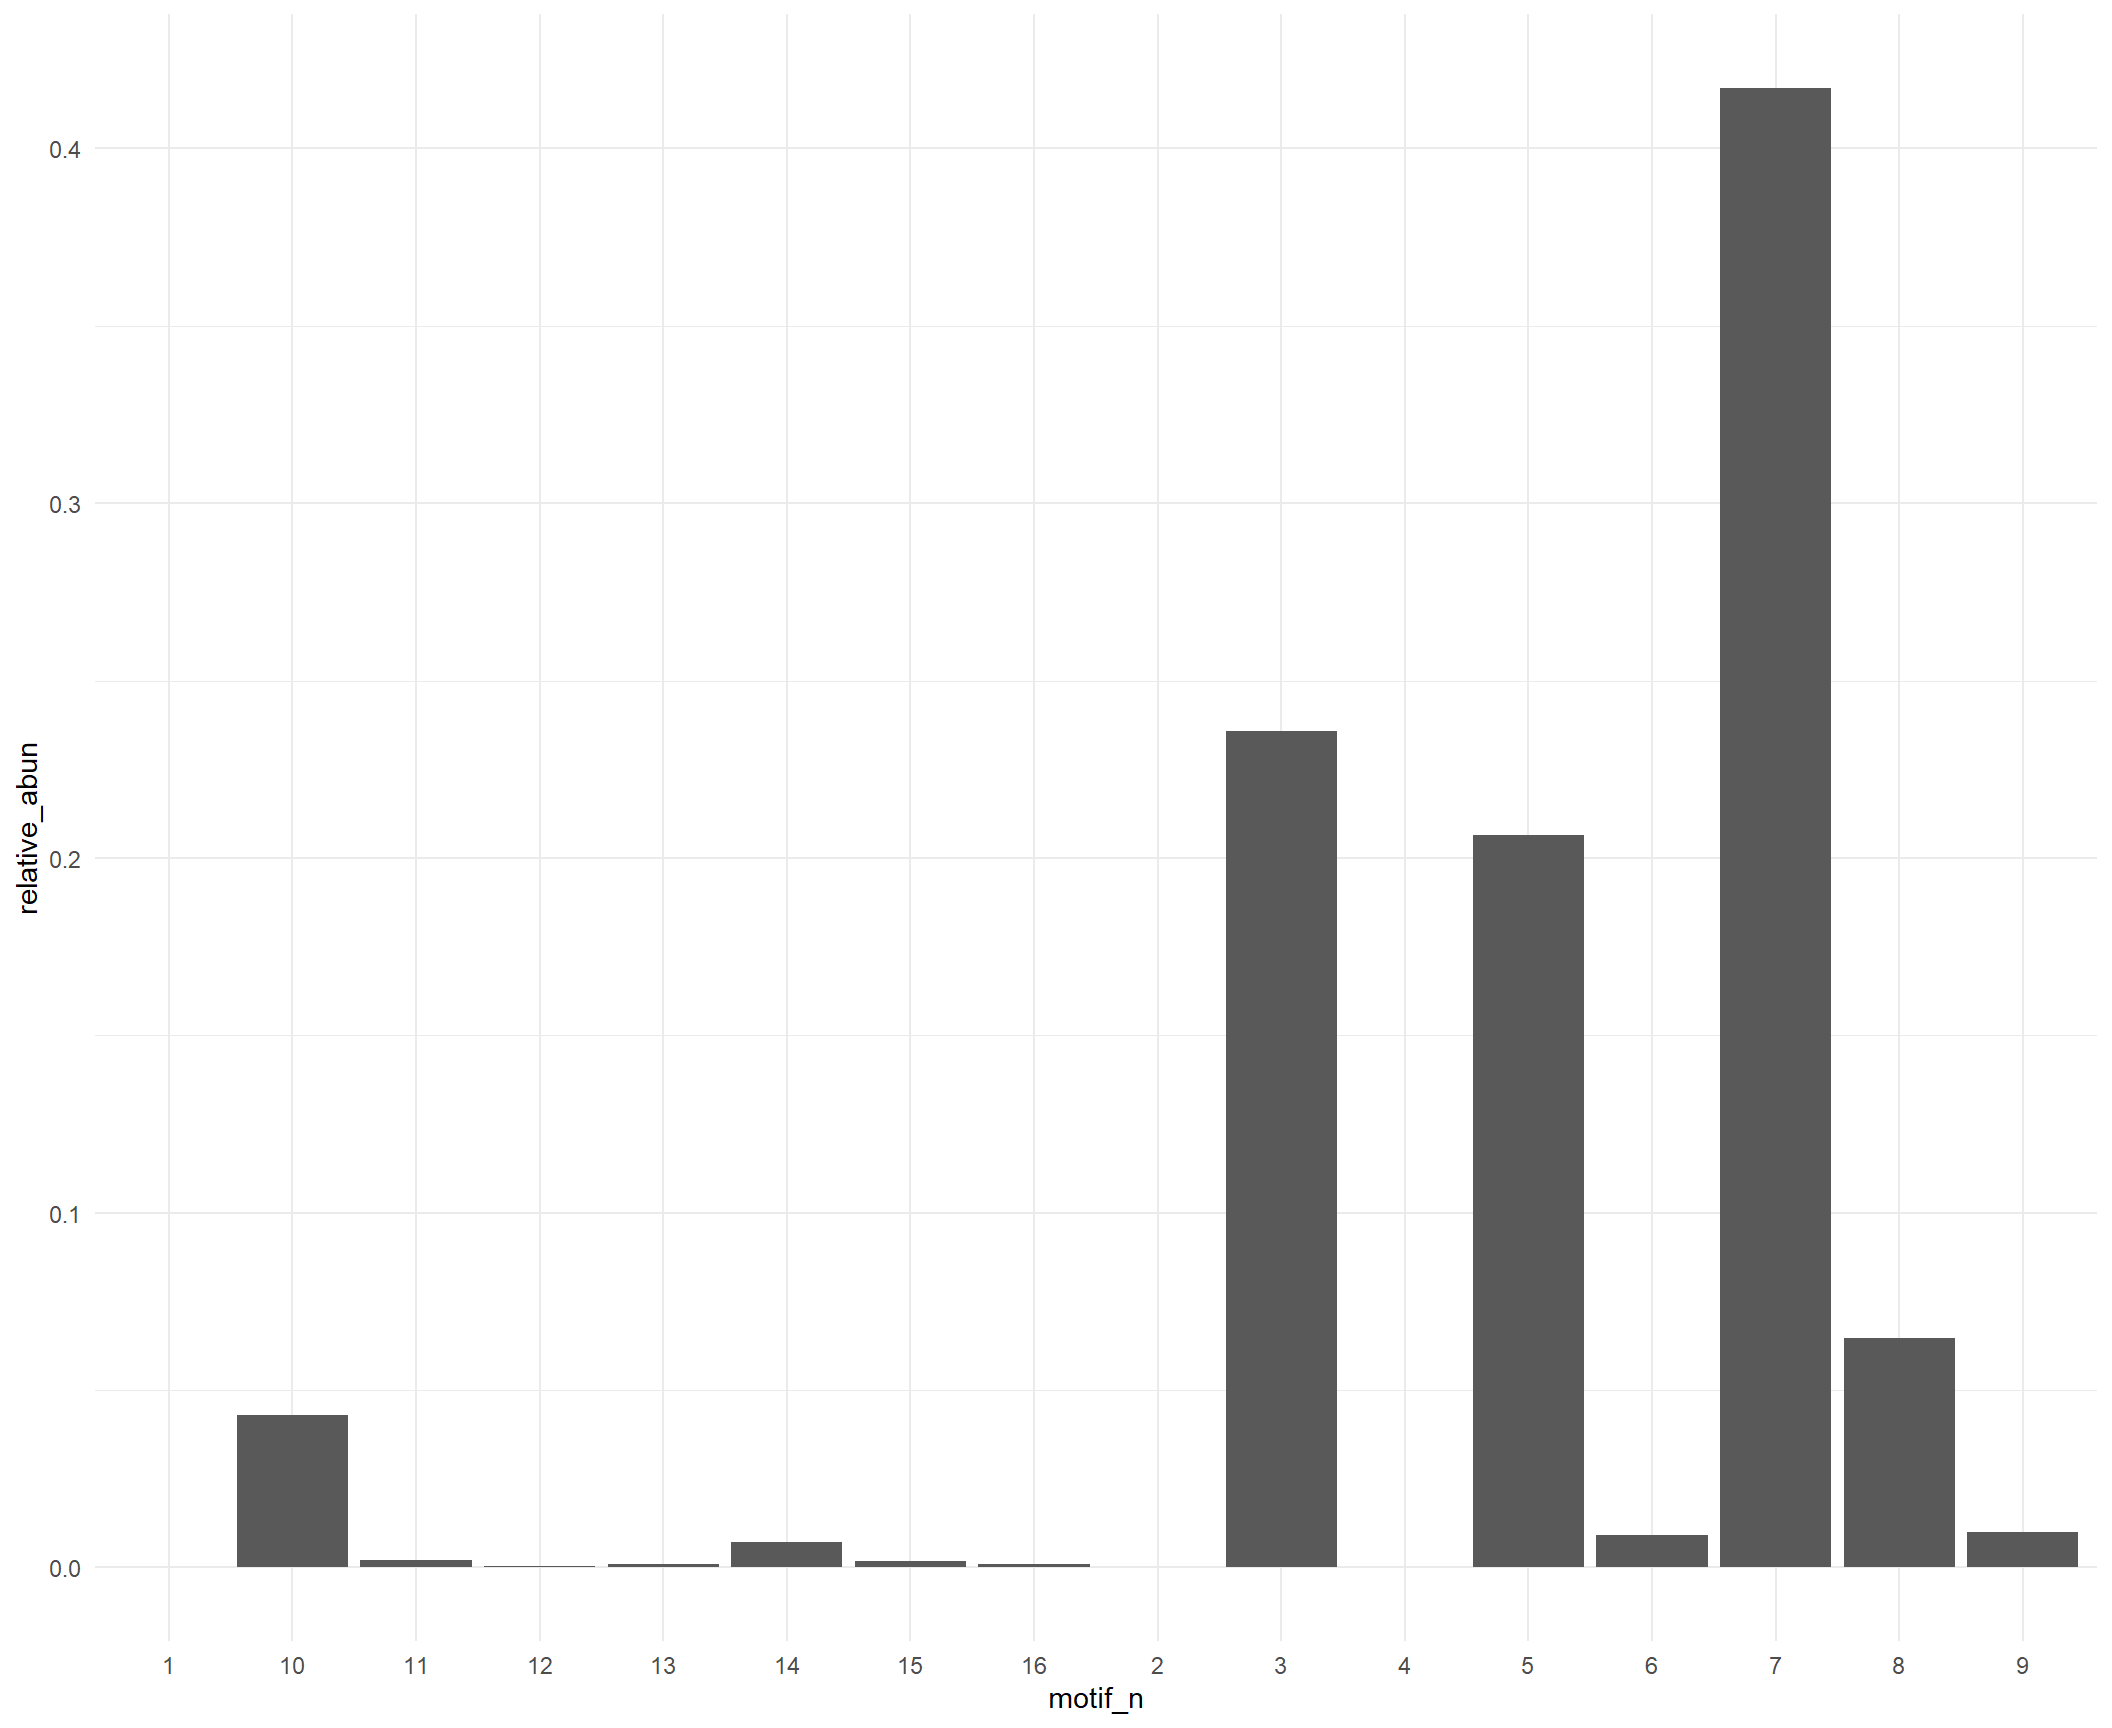
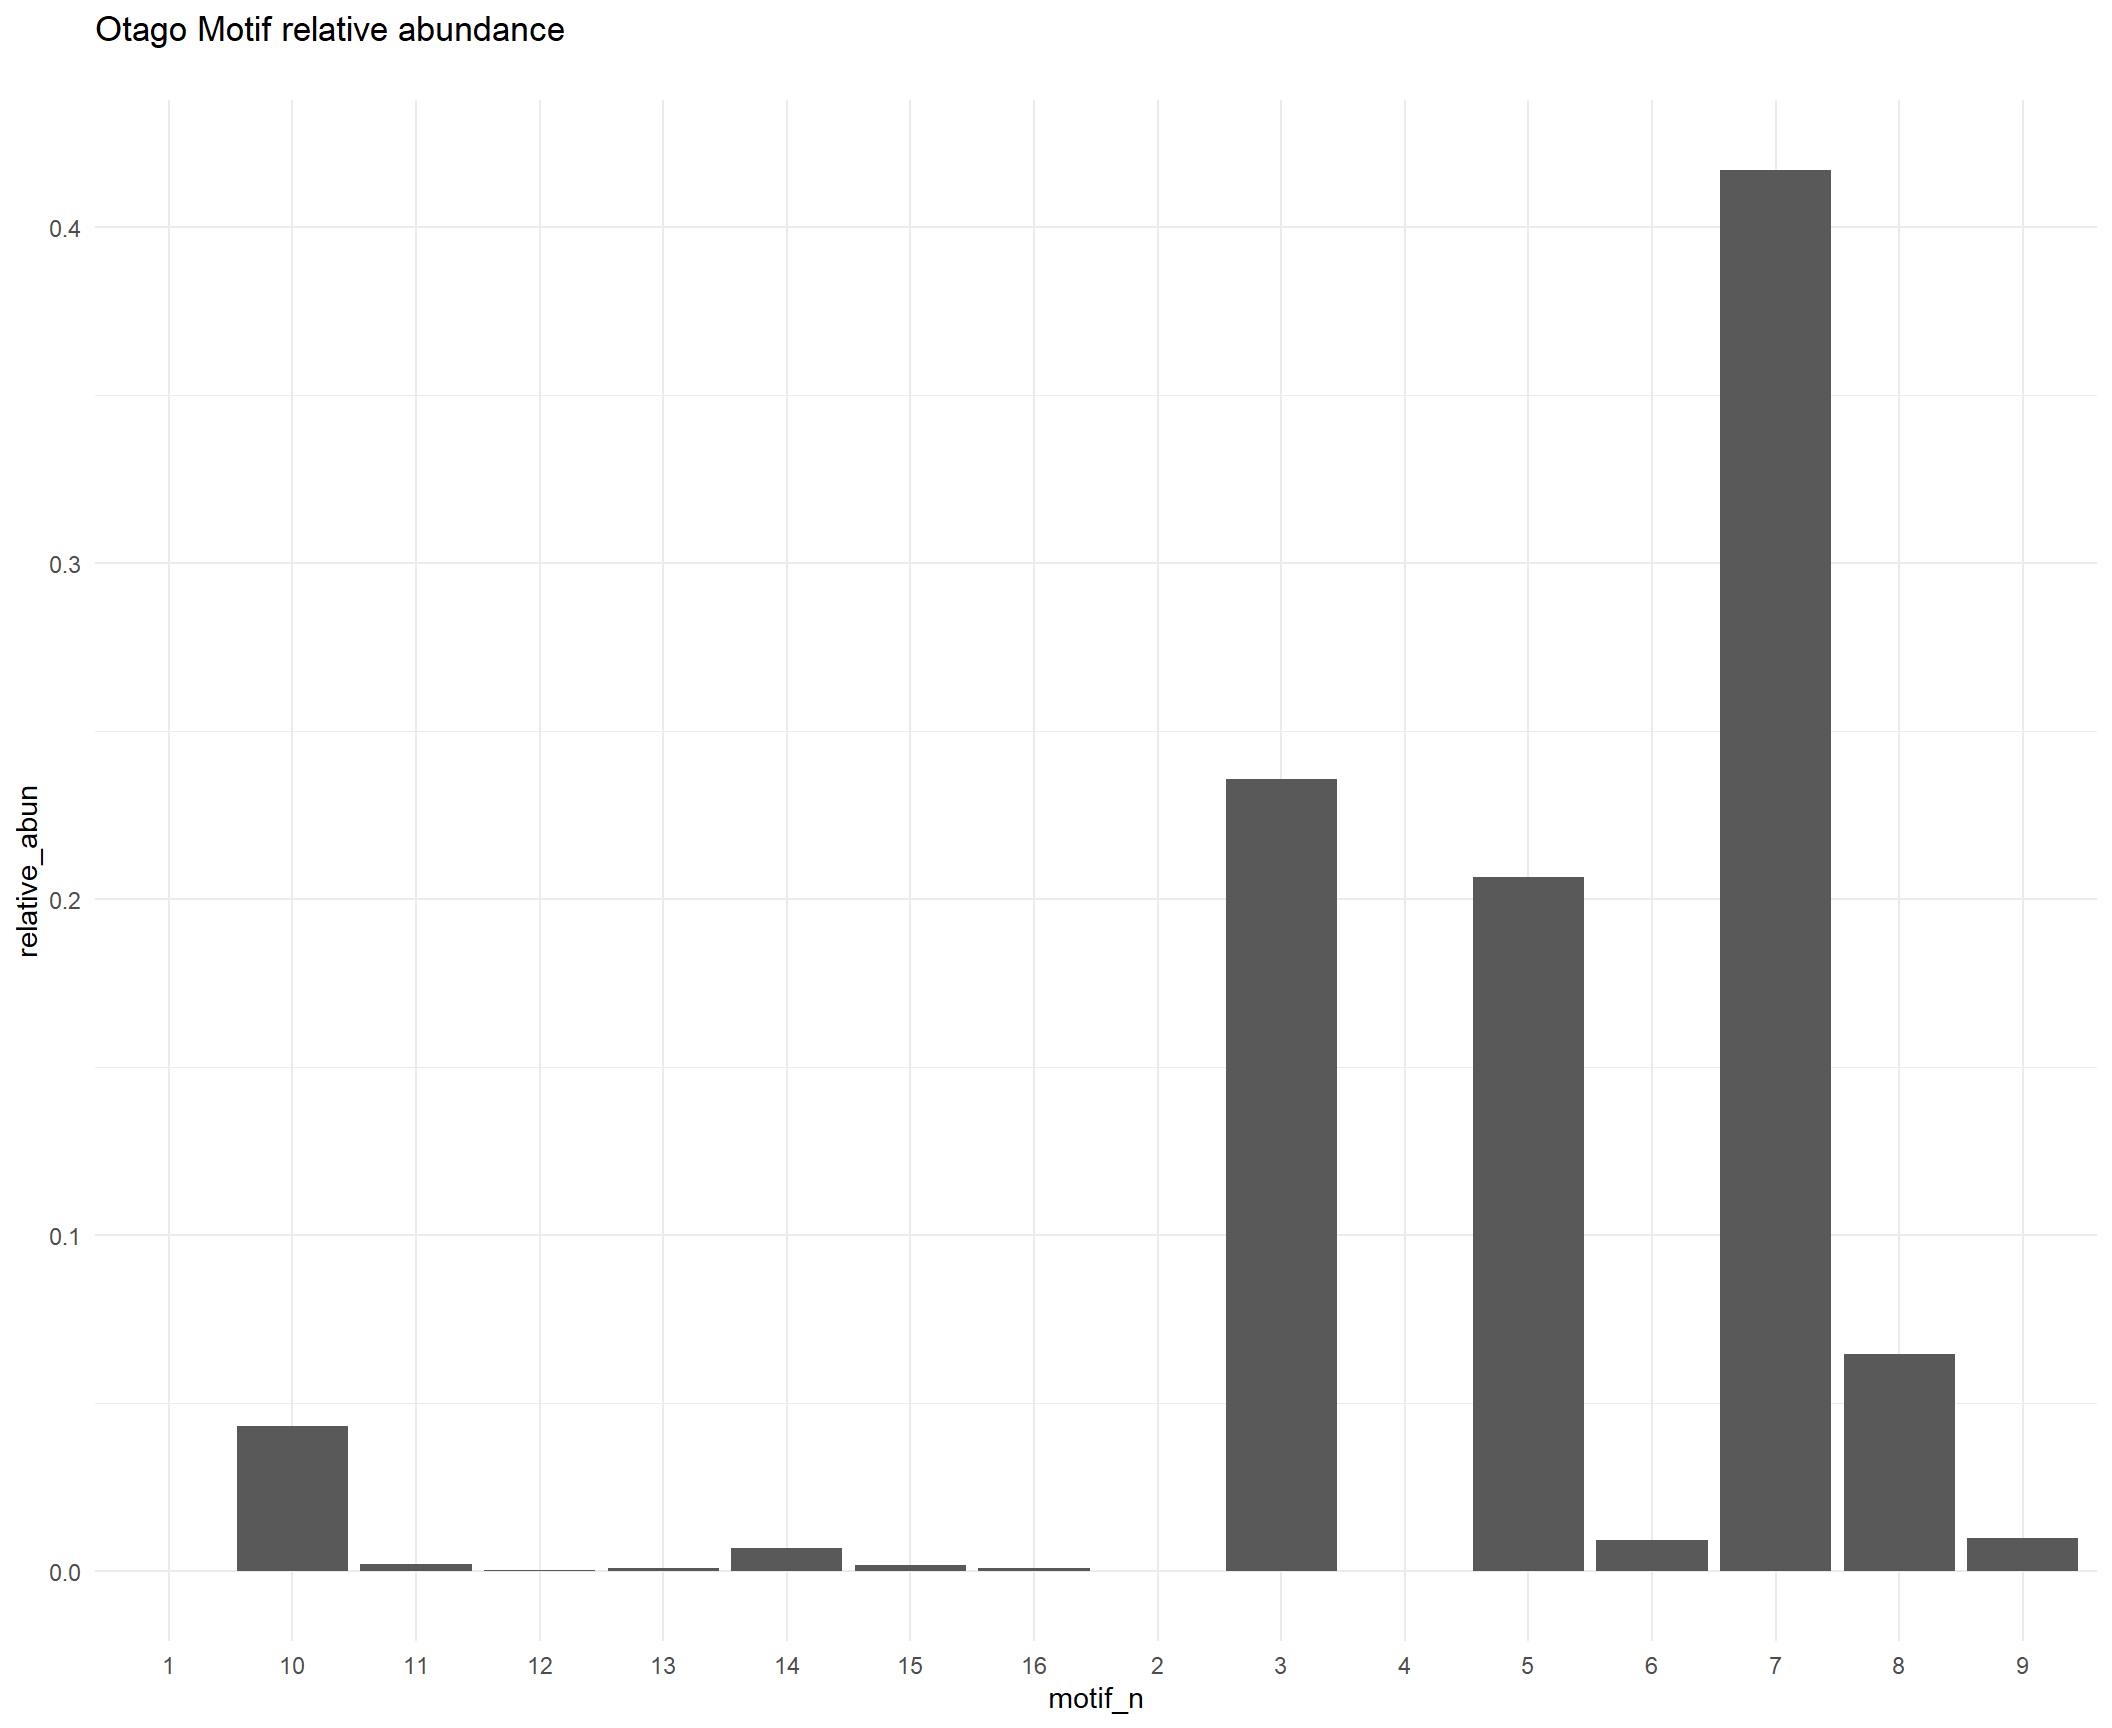
Build site.

diff --git a/docs/Networks_HW2.html b/docs/Networks_HW2.html
@@ -382,7 +382,7 @@ div.tocify {
 <div class="tab-content">
 <div id="summary" class="tab-pane fade in active">
 <p>
-<strong>Last updated:</strong> 2021-04-12
+<strong>Last updated:</strong> 2021-04-14
 </p>
 <p>
 <strong>Checks:</strong> <span class="glyphicon glyphicon-ok text-success" aria-hidden="true"></span> 7 <span class="glyphicon glyphicon-exclamation-sign text-danger" aria-hidden="true"></span> 0
@@ -473,16 +473,16 @@ This reproducible <a href="http://rmarkdown.rstudio.com">R Markdown</a> analysis
 <div class="panel panel-default">
 <div class="panel-heading">
 <p class="panel-title">
-<a data-toggle="collapse" data-parent="#workflowr-checks" href="#strongRepositoryversionstrongahrefhttpsgithubcomKiseokUchicagoNetworksHWS2021tree64a8b31053fa085d543139359685bf8105de938dtargetblank64a8b31a"> <span class="glyphicon glyphicon-ok text-success" aria-hidden="true"></span> <strong>Repository version:</strong> <a href="https://github.com/KiseokUchicago/Networks_HW_S2021/tree/64a8b31053fa085d543139359685bf8105de938d" target="_blank">64a8b31</a> </a>
+<a data-toggle="collapse" data-parent="#workflowr-checks" href="#strongRepositoryversionstrongahrefhttpsgithubcomKiseokUchicagoNetworksHWS2021treea62bd87dba375a62853e39455bbdd7c284271918targetblanka62bd87a"> <span class="glyphicon glyphicon-ok text-success" aria-hidden="true"></span> <strong>Repository version:</strong> <a href="https://github.com/KiseokUchicago/Networks_HW_S2021/tree/a62bd87dba375a62853e39455bbdd7c284271918" target="_blank">a62bd87</a> </a>
 </p>
 </div>
[2 lines of base64/hex data omitted]
 <div class="panel-body">
 <p>
 Great! You are using Git for version control. Tracking code development and connecting the code version to the results is critical for reproducibility.
 </p>
 <p>
-The results in this page were generated with repository version <a href="https://github.com/KiseokUchicago/Networks_HW_S2021/tree/64a8b31053fa085d543139359685bf8105de938d" target="_blank">64a8b31</a>. See the <em>Past versions</em> tab to see a history of the changes made to the R Markdown and HTML files.
+The results in this page were generated with repository version <a href="https://github.com/KiseokUchicago/Networks_HW_S2021/tree/a62bd87dba375a62853e39455bbdd7c284271918" target="_blank">a62bd87</a>. See the <em>Past versions</em> tab to see a history of the changes made to the R Markdown and HTML files.
 </p>
 <p>
 Note that you need to be careful to ensure that all relevant files for the analysis have been committed to Git prior to generating the results (you can use <code>wflow_publish</code> or <code>wflow_git_commit</code>). workflowr only checks the R Markdown file, but you know if there are other scripts or data files that it depends on. Below is the status of the Git repository when the results were generated:
@@ -500,9 +500,7 @@ Untracked files:
     Untracked:  data/Otago_Data_Nodes.csv
     Untracked:  data/Ural_valley_A_HP_048.csv
     Untracked:  data/vizentin-bugoni_et_al_2016_complementary.xlsx
-
-Unstaged changes:
-    Modified:   analysis/index.Rmd
+    Untracked:  data/~$Dunne2013PBioSupData.xlsx
 
 </code></pre>
 <p>
@@ -541,6 +539,40 @@ Message
 </tr>
 </thead>
 <tbody>
+<tr>
+<td>
+Rmd
+</td>
+<td>
+<a href="https://github.com/KiseokUchicago/Networks_HW_S2021/blob/a62bd87dba375a62853e39455bbdd7c284271918/analysis/Networks_HW2.Rmd" target="_blank">a62bd87</a>
+</td>
+<td>
+KiseokUchicago
+</td>
+<td>
+2021-04-14
+</td>
+<td>
+HW2 update
+</td>
+</tr>
+<tr>
+<td>
+html
+</td>
+<td>
+<a href="https://rawcdn.githack.com/KiseokUchicago/Networks_HW_S2021/7a768195d7afb5fcac77d183c1b01aadf0ee6db8/docs/Networks_HW2.html" target="_blank">7a76819</a>
+</td>
+<td>
+KiseokUchicago
+</td>
+<td>
+2021-04-12
+</td>
+<td>
+Build site.
+</td>
+</tr>
 <tr>
 <td>
 Rmd
@@ -965,15 +997,128 @@ for (i in 0:15){ # note that counting starts at 0
 <h2>Problem 8. What is the dominant sub-graph in the Otago food web? What is its ecological meaning?</h2>
 <pre class="r"><code>df_motif &lt;- data.frame(relative_abun=motifs(otago_web)/count_motifs(otago_web))
 df_motif &lt;- tibble::rownames_to_column(df_motif, var=&#39;motif_n&#39;)
-ggplot(data=df_motif, aes(x=motif_n, y=relative_abun)) +
-  geom_bar(stat=&quot;identity&quot;) + theme_minimal()</code></pre>
+m1 &lt;- ggplot(data=df_motif, aes(x=motif_n, y=relative_abun)) + geom_bar(stat=&quot;identity&quot;) + theme_minimal() + ggtitle(&quot;Otago Motif relative abundance \n&quot;)
+m1</code></pre>
 <p><img src="figure/Networks_HW2.Rmd/unnamed-chunk-15-1.png" width="1056" style="display: block; margin: auto;" /> 7 is the most abundant. The center node is consumed by 2 predators. This is exploitative competition. (kind of indirect effect, interaction chain)</p>
 </div>
 <div id="problem-9.-calculate-the-proportion-of-sub-graphs-for-the-bahia-falsa-food-web.-are-their-relative-frequencies-in-this-food-web-different-from-those-for-the-otago-food-web" class="section level2">
 <h2>Problem 9. Calculate the proportion of sub-graphs for the Bahia Falsa food web. Are their relative frequencies in this food web different from those for the Otago food web?</h2>
+<pre class="r"><code># Bahia Falsa food web
+Bahia_Falsa_metadata &lt;- openxlsx::read.xlsx(&#39;data/Dunne2013PBioSupData.xlsx&#39;,sheet=3)
+
+# We&#39;ll use free living species only (the first two columns)
+edge_bahia &lt;- Bahia_Falsa_metadata[,c(1,2)] 
+colnames(edge_bahia) &lt;- c(&quot;Consumer&quot;,&quot;Resource&quot;)
+dim(edge_bahia)</code></pre>
+<pre><code>[1] 3720    2</code></pre>
+<pre class="r"><code>edge_bahia2 &lt;- edge_bahia %&gt;% filter(!is.na(Consumer)) %&gt;% filter(!is.na(Resource))
+head(edge_bahia2)</code></pre>
+<pre><code>  Consumer Resource
+1       18        2
+2       18        5
+3       19        2
+4       19       10
+5       20        2
+6       20       10</code></pre>
+<pre class="r"><code>tail(edge_bahia2)</code></pre>
+<pre><code>     Consumer Resource
+1072      118       63
+1073      118       64
+1074      118       66
+1075      118       74
+1076      118       76
+1077      119        2</code></pre>
+<pre class="r"><code>dim(edge_bahia2)</code></pre>
+<pre><code>[1] 1077    2</code></pre>
+<pre class="r"><code>bahia_web &lt;- graph.data.frame(edge_bahia2, vertices = NULL, directed = T)
+
+motifs(bahia_web) #absolute numbers</code></pre>
+<pre><code> [1]   NA   NA 6973   NA 6307   16 9591 1941   54  630   25   50    0   38    0
+[16]    1</code></pre>
+<pre class="r"><code>motifs(bahia_web)/count_motifs(bahia_web) # Proportion</code></pre>
+<pre><code> [1]           NA           NA 2.721065e-01           NA 2.461172e-01
+ [6] 6.243659e-04 3.742683e-01 7.574339e-02 2.107235e-03 2.458441e-02
+[11] 9.755717e-04 1.951143e-03 0.000000e+00 1.482869e-03 0.000000e+00
+[16] 3.902287e-05</code></pre>
+<pre class="r"><code>df_motif_b &lt;- data.frame(relative_abun=motifs(bahia_web)/count_motifs(bahia_web))
+df_motif_b &lt;- tibble::rownames_to_column(df_motif_b, var=&#39;motif_n&#39;)
+m2 &lt;- ggplot(data=df_motif_b, aes(x=motif_n, y=relative_abun)) + geom_bar(stat=&quot;identity&quot;) + theme_minimal() + ggtitle(&quot;Bahia Falsa Motif relative abundance \n&quot;)
+m2</code></pre>
+<p><img src="figure/Networks_HW2.Rmd/unnamed-chunk-16-1.png" width="1056" style="display: block; margin: auto;" /> Bahia Falsa distribution of motif’s relative abundance are similar to Otago’s food web.</p>
 </div>
 <div id="network-projections" class="section level2">
 <h2>3. Network projections</h2>
+<p>As described below, we can create a one-mode projection from the two-mode bipartite graph with a simple step from linear algebra, namely matrix multiplication. There are two possible one-mode projections, one onto the groups and the other onto the nodes, depending on the order of the matrix product.<br />
+We can project the incidence matrix by multiplying it with its transpose.</p>
+<pre class="r"><code># Original
+networklevel(memmott1999, index=&#39;connectance&#39;)</code></pre>
+<pre><code>connectance 
+  0.1513924 </code></pre>
+<pre class="r"><code># Project plants
+# Recall that the logical step &#39;&gt; 0&#39; converts the original matrix into a binary one. Then &#39;tcrossprod&#39; performs thee multiplication of the matrix with its transpose, to get the number of shared pollinators  
+plants_projected &lt;- tcrossprod(memmott1999&gt;0) 
+# In addition, we set the diagonal elements equal to zero, because Pii is otherwise the number of groups that node i belongs to
+diag(plants_projected) &lt;- 0
+
+g &lt;- graph.adjacency(plants_projected, mode = &#39;undirected&#39;, weighted = T)
+par(mar=c(0,0,0,0))
+plot(g)</code></pre>
+<p><img src="figure/Networks_HW2.Rmd/unnamed-chunk-17-1.png" width="1056" style="display: block; margin: auto;" /></p>
+<pre class="r"><code>plot(g, vertex.size=6, vertex.label=NA, edge.color=&#39;black&#39;, edge.width=log(E(g)$weight), layout=layout.circle)</code></pre>
+<p><img src="figure/Networks_HW2.Rmd/unnamed-chunk-17-2.png" width="1056" style="display: block; margin: auto;" /></p>
+<pre class="r"><code>qplot(E(g)$weight)</code></pre>
+<p><img src="figure/Networks_HW2.Rmd/unnamed-chunk-17-3.png" width="1056" style="display: block; margin: auto;" /></p>
+</div>
+<div id="problem-10.-try-to-project-the-pollinators-and-plot-the-degree-distribution-of-this-projection-use-your-code-for-question-1." class="section level2">
+<h2>Problem 10. Try to project the pollinators and plot the degree distribution of this projection (use your code for question 1).</h2>
+<pre class="r"><code># Project pollinators
+# Recall that the logical step &#39;&gt; 0&#39; converts the original matrix into a binary one. Then &#39;tcrossprod&#39; performs thee multiplication of the matrix with its transpose, to get the number of shared pollinators  
+pollinators_projected &lt;- tcrossprod(t(memmott1999)&gt;0) 
+# In addition, we set the diagonal elements equal to zero, because Pii is otherwise the number of groups that node i belongs to
+diag(pollinators_projected) &lt;- 0
+
+g2 &lt;- graph.adjacency(pollinators_projected, mode = &#39;undirected&#39;, weighted = T)
+par(mar=c(0,0,0,0))
+plot(g2)</code></pre>
+<p><img src="figure/Networks_HW2.Rmd/unnamed-chunk-18-1.png" width="1056" style="display: block; margin: auto;" /></p>
+<pre class="r"><code>plot(g2, vertex.size=6, vertex.label=NA, edge.color=&#39;black&#39;, edge.width=log(E(g)$weight), layout=layout.circle)</code></pre>
+<p><img src="figure/Networks_HW2.Rmd/unnamed-chunk-18-2.png" width="1056" style="display: block; margin: auto;" /></p>
+<pre class="r"><code>qplot(E(g2)$weight)</code></pre>
+<p><img src="figure/Networks_HW2.Rmd/unnamed-chunk-18-3.png" width="1056" style="display: block; margin: auto;" /></p>
+<pre class="r"><code># Degree distribution
+
+# make adjacency matrix
+A_pol &lt;- as_adjacency_matrix(g2)
+class(A_pol)</code></pre>
+<pre><code>[1] &quot;dgCMatrix&quot;
+attr(,&quot;package&quot;)
+[1] &quot;Matrix&quot;</code></pre>
+<pre class="r"><code>dim(A_pol)</code></pre>
+<pre><code>[1] 79 79</code></pre>
+<pre class="r"><code># in-degree
+in_degree &lt;- rep(0,dim(A_pol)[1])
+for (i in 1:dim(A_pol)[1]){
+  in_degree[i] &lt;- sum(A_pol[i,])
+}
+in_degree</code></pre>
+<pre><code> [1] 44 33 36 33 33 28 35 63 16 45 22 57 57 35 62 51 62 73 58 58 58 45 75 45  8
+[26] 51 19 37 33 45 76 45 61 78 38 22  8 45 45 65 45 70 76 60 74 53 22 54 66 51
+[51] 49 57 46 45 62 22 76 76 45 51 45 61 26 34 30 30 19 68 24 68 43 71 26 38 17
+[76] 57 53 16 48</code></pre>
+<pre class="r"><code># out-degree
+out_degree &lt;- rep(0,dim(A_pol)[2])
+for (j in 1:dim(A_pol)[2]){
+  out_degree[j] &lt;- sum(A_pol[,j])
+}
+out_degree</code></pre>
+<pre><code> [1] 44 33 36 33 33 28 35 63 16 45 22 57 57 35 62 51 62 73 58 58 58 45 75 45  8
+[26] 51 19 37 33 45 76 45 61 78 38 22  8 45 45 65 45 70 76 60 74 53 22 54 66 51
+[51] 49 57 46 45 62 22 76 76 45 51 45 61 26 34 30 30 19 68 24 68 43 71 26 38 17
+[76] 57 53 16 48</code></pre>
+<pre class="r"><code># Now we use a dataframe to make the plot.
+df_A &lt;- data.frame(deg=c(out_degree,in_degree), direction=c(rep(&#39;out&#39;,length(out_degree)),rep(&#39;in&#39;,length(in_degree))))
+ggplot(df_A, aes(deg, fill=direction)) + geom_histogram(alpha=0.3, binwidth=1)</code></pre>
+<p><img src="figure/Networks_HW2.Rmd/unnamed-chunk-18-4.png" width="1056" style="display: block; margin: auto;" /></p>
 <br>
 <p>
 <button type="button" class="btn btn-default btn-workflowr btn-workflowr-sessioninfo" data-toggle="collapse" data-target="#workflowr-sessioninfo" style="display: block;">
